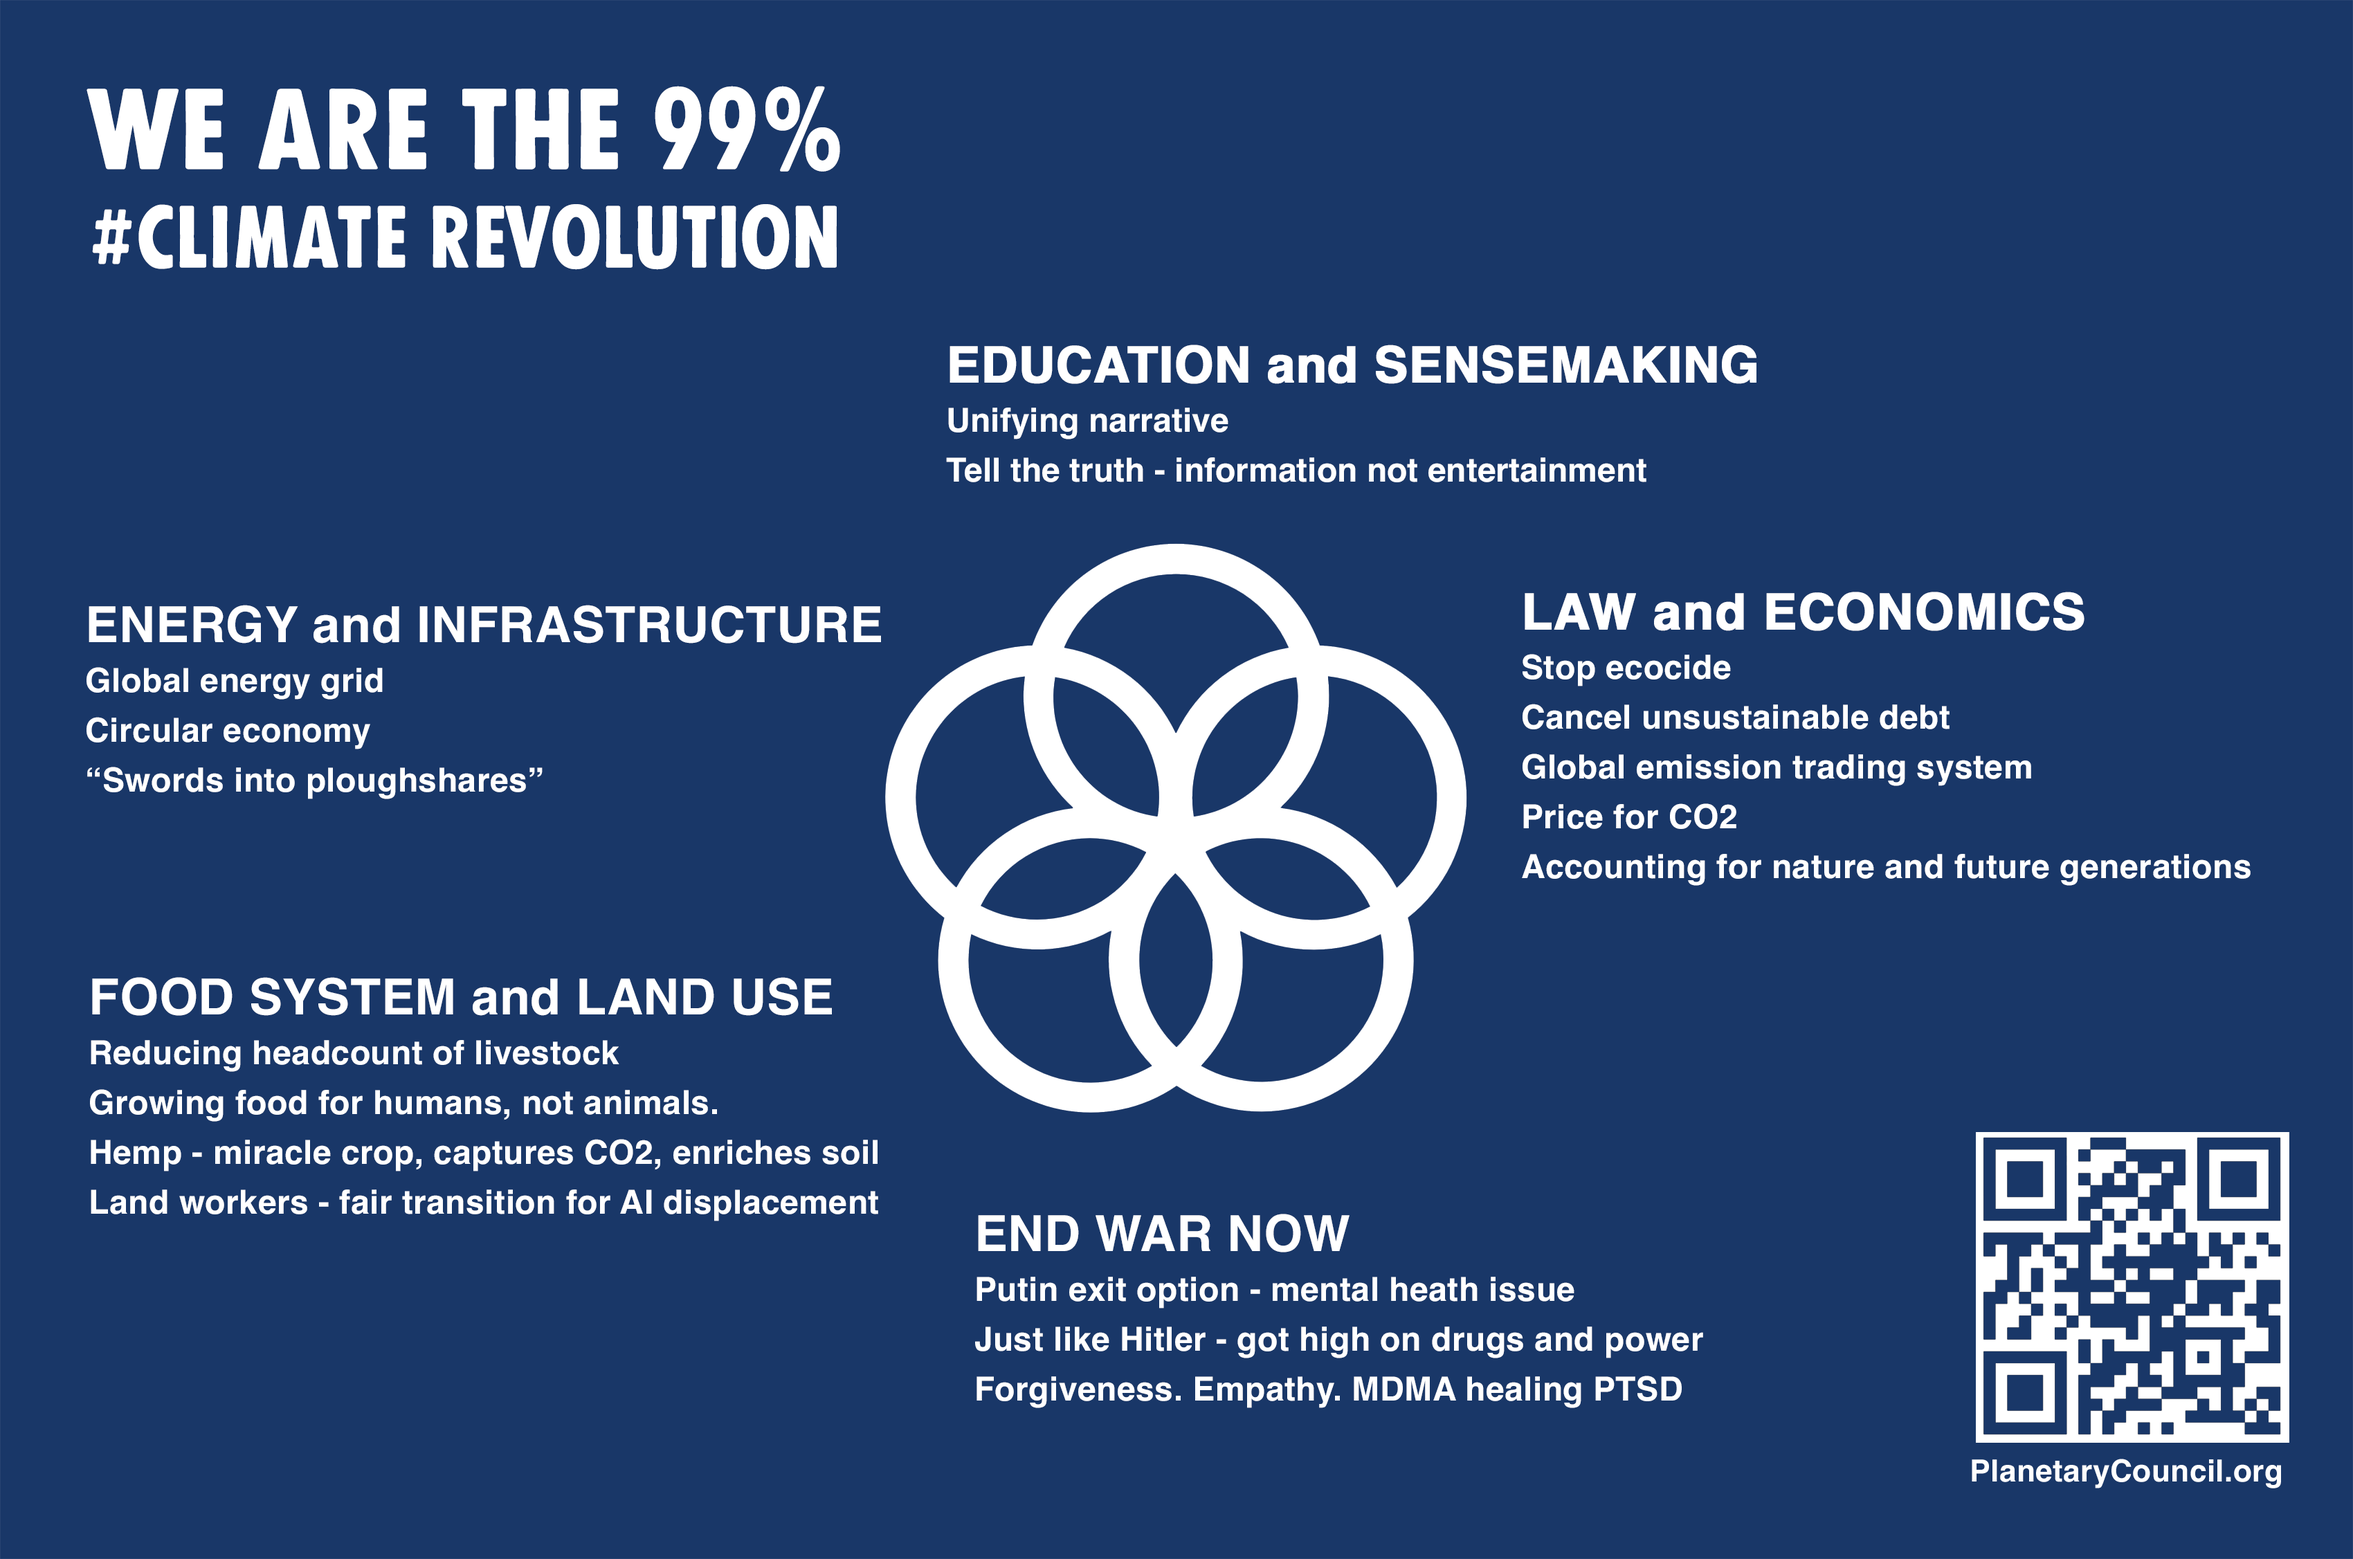
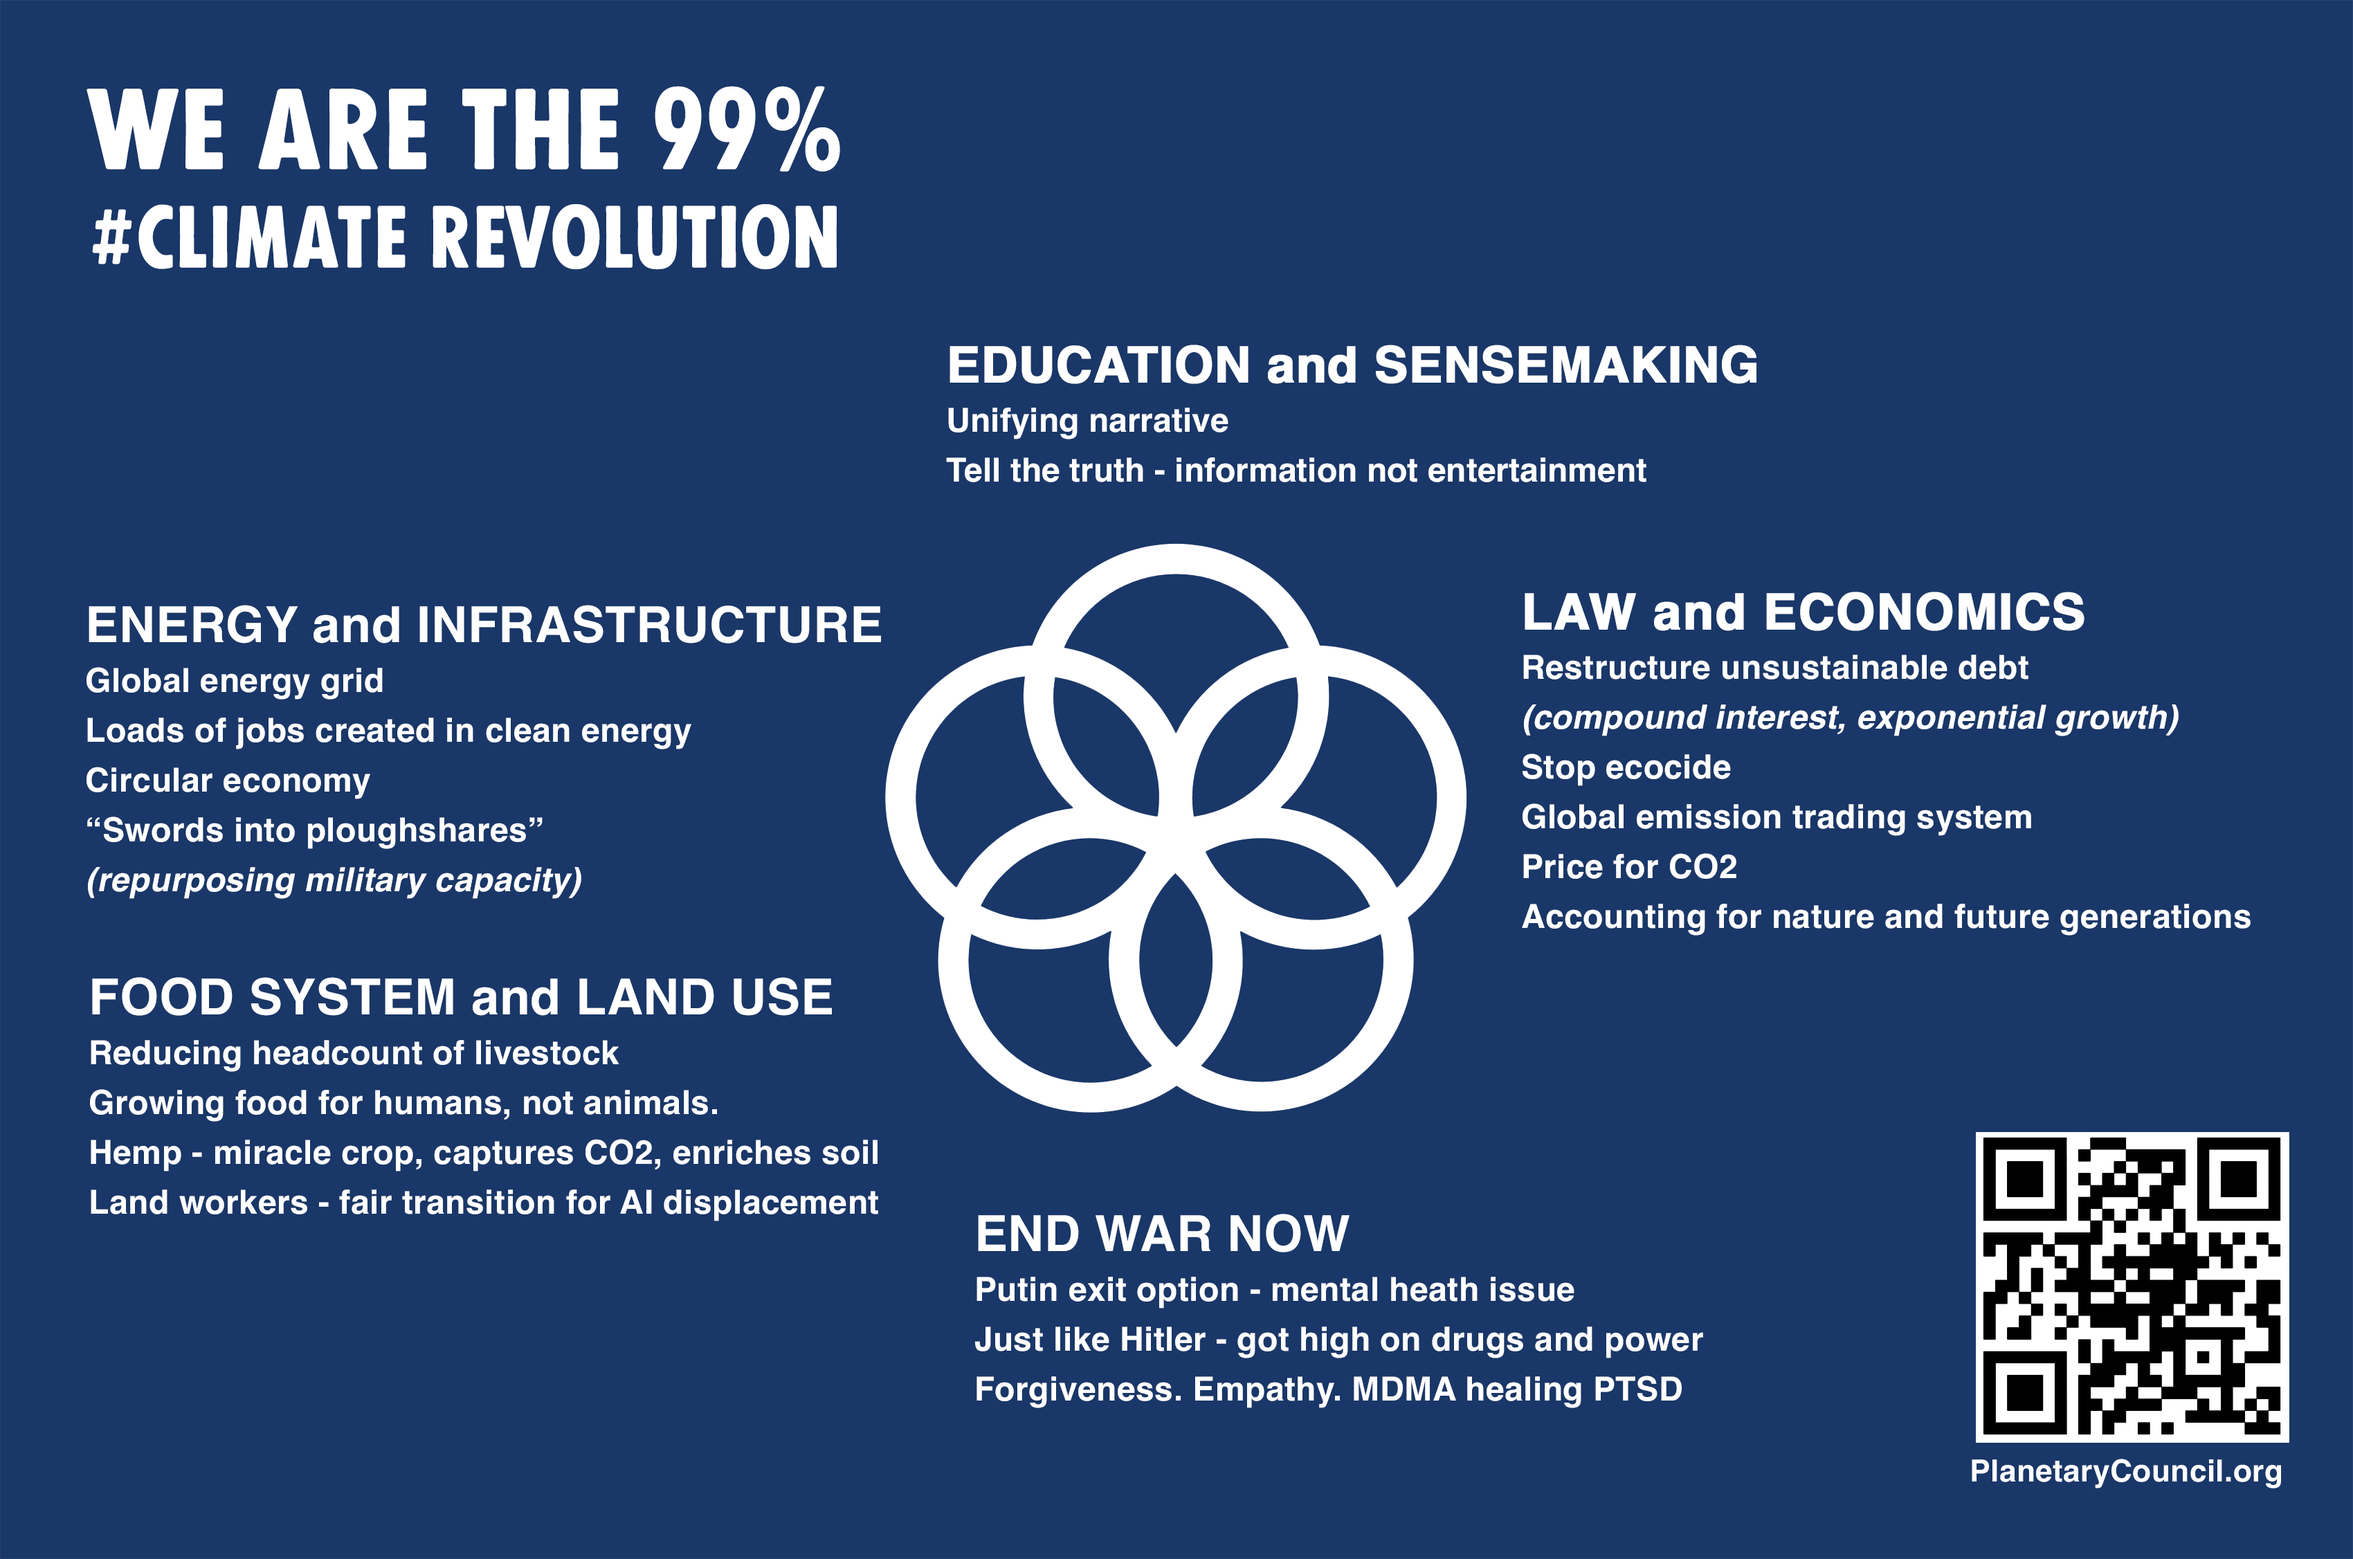
Updates to the website - restructure rather than cancel

Changed region(s): [[0.6547, 0.4039, 0.9665, 0.6214], [0.8418, 0.7146, 0.9665, 0.9321], [0.0312, 0.466, 0.3118, 0.5903]]

diff --git a/index.html b/index.html
@@ -14,13 +14,13 @@
 		<meta property="og:title" content="Planetary Council"/>
 		<meta property="og:image" content="https://planetarycouncil.org/preview.png"/>
 		<meta property="og:site_name" content="Planetary Council"/>
-		<meta property="og:description" content="Actionable Policies to Handle Climate Emergency. New Models of Trust and Governance. Architecting a New World. Operating System for the Planet(s)"/>
+		<meta property="og:description" content="Architecting a New World. Operating System for the Planet(s)"/>
 	
 		<meta name="twitter:card" content="summary_large_image">
 		<meta name="twitter:site" content="@planetcouncil">
 		<meta name="twitter:creator" content="@marsXrobertson">
 		<meta name="twitter:title" content="Planetary Council">
-		<meta name="twitter:description" content="Actionable Policies to Handle Climate Emergency. New Models of Trust and Governance. Architecting a New World. Operating System for the Planet(s)">
+		<meta name="twitter:description" content="Architecting a New World. Operating System for the Planet(s)">
 		<meta name="twitter:image" content="https://planetarycouncil.org/preview.png">
 
 	</head>
@@ -30,13 +30,17 @@
 			<header id="header">
 				<h1>Planetary Council</h1>
 
-				<p style="font-size: 1.8em; font-weight: bold;";>System change</p>
+				<p style="font-size: 2em; font-weight: bold; font-family: monospace; line-height: 1em; height: 80px; word-break: break-all; color: white"><span class="txt-rotate" data-period="1000" data-rotate='[ "system change", "architecting the new world", "operating system for the planet(s)" ]'></span></p>
 
-				<p style="font-size: 1.8em; font-weight: bold;";>We are the 99%</p>
+				<p style="font-size: 1.6em; font-weight: bold;";>Moonshot thinking. 10x <i>(new paradigm)</i> is easier than 10% <i>(incremental progress, nuanced negotiation)</i></p>
 
-				<p style="font-size: 1.6em";><a href="https://twitter.com/hashtag/TheBigOne" target="_blank">#TheBigOne</a> <a href="https://twitter.com/hashtag/UniteToSurvive">#UniteToSurvive</a> <a href="https://twitter.com/hashtag/ClimateRevolution">#ClimateRevolution</a></p>
+				<p style="font-size: 1.6em; font-weight: bold;";>The world is ready for change and here is what we suggest:</p>
 
-				<p>Simplified:</p>
+				<!-- <p style="font-size: 1.6em; font-weight: bold;";>Recent coup attemp in Russia indicated that at some point war will come to end. It will be a massive unifying moment (or maybe alien invastion)</i></p> -->
+
+				<!-- <p style="font-size: 1.6em";><a href="https://twitter.com/hashtag/TheBigOne" target="_blank">#TheBigOne</a> <a href="https://twitter.com/hashtag/UniteToSurvive">#UniteToSurvive</a> <a href="https://twitter.com/hashtag/ClimateRevolution">#ClimateRevolution</a></p> -->
+
+				<!-- <p>Simplified:</p> -->
 				
 				<img src="policies.png" alt="Planetary Council" style="width: 100%;">
 
@@ -44,9 +48,9 @@
 				<br>
 				<br>
 
-				<p>Longer version. Wall of text. Need to zoom in. Everything remains valid.</p>
+				<!-- <p>Longer version. Wall of text. Need to zoom in. Everything remains valid.</p> -->
 
-				<img src="policies-wall-of-text.png" alt="Planetary Council" style="width: 100%;">
+				<!-- <img src="policies-wall-of-text.png" alt="Planetary Council" style="width: 100%;"> -->
 
 				<br>
 				<br>
@@ -65,8 +69,11 @@
 
 				<!-- <p>Obtain the <strong><a href="https://genesis.re/">NFT Passport of the Network State Genesis</a></strong></p> -->
 
-				<p style="font-size: 2em; font-weight: bold; font-family: monospace; line-height: 1em; height: 80px; word-break: break-all; color: white"><span class="txt-rotate" data-period="1000" data-rotate='[ "new models of trust and governance", "architecting the new world", "operating system for the planet(s)" ]'></span></p>
+				
 			</header>
+
+			<br>
+			<br>
 
 			<iframe src="https://planetarycouncil.substack.com/embed" width="480" height="320" style="border:1px solid #EEE; background:rgba(255,255,255,0.7); max-width: 100%;" frameborder="0" scrolling="no"></iframe>
 
